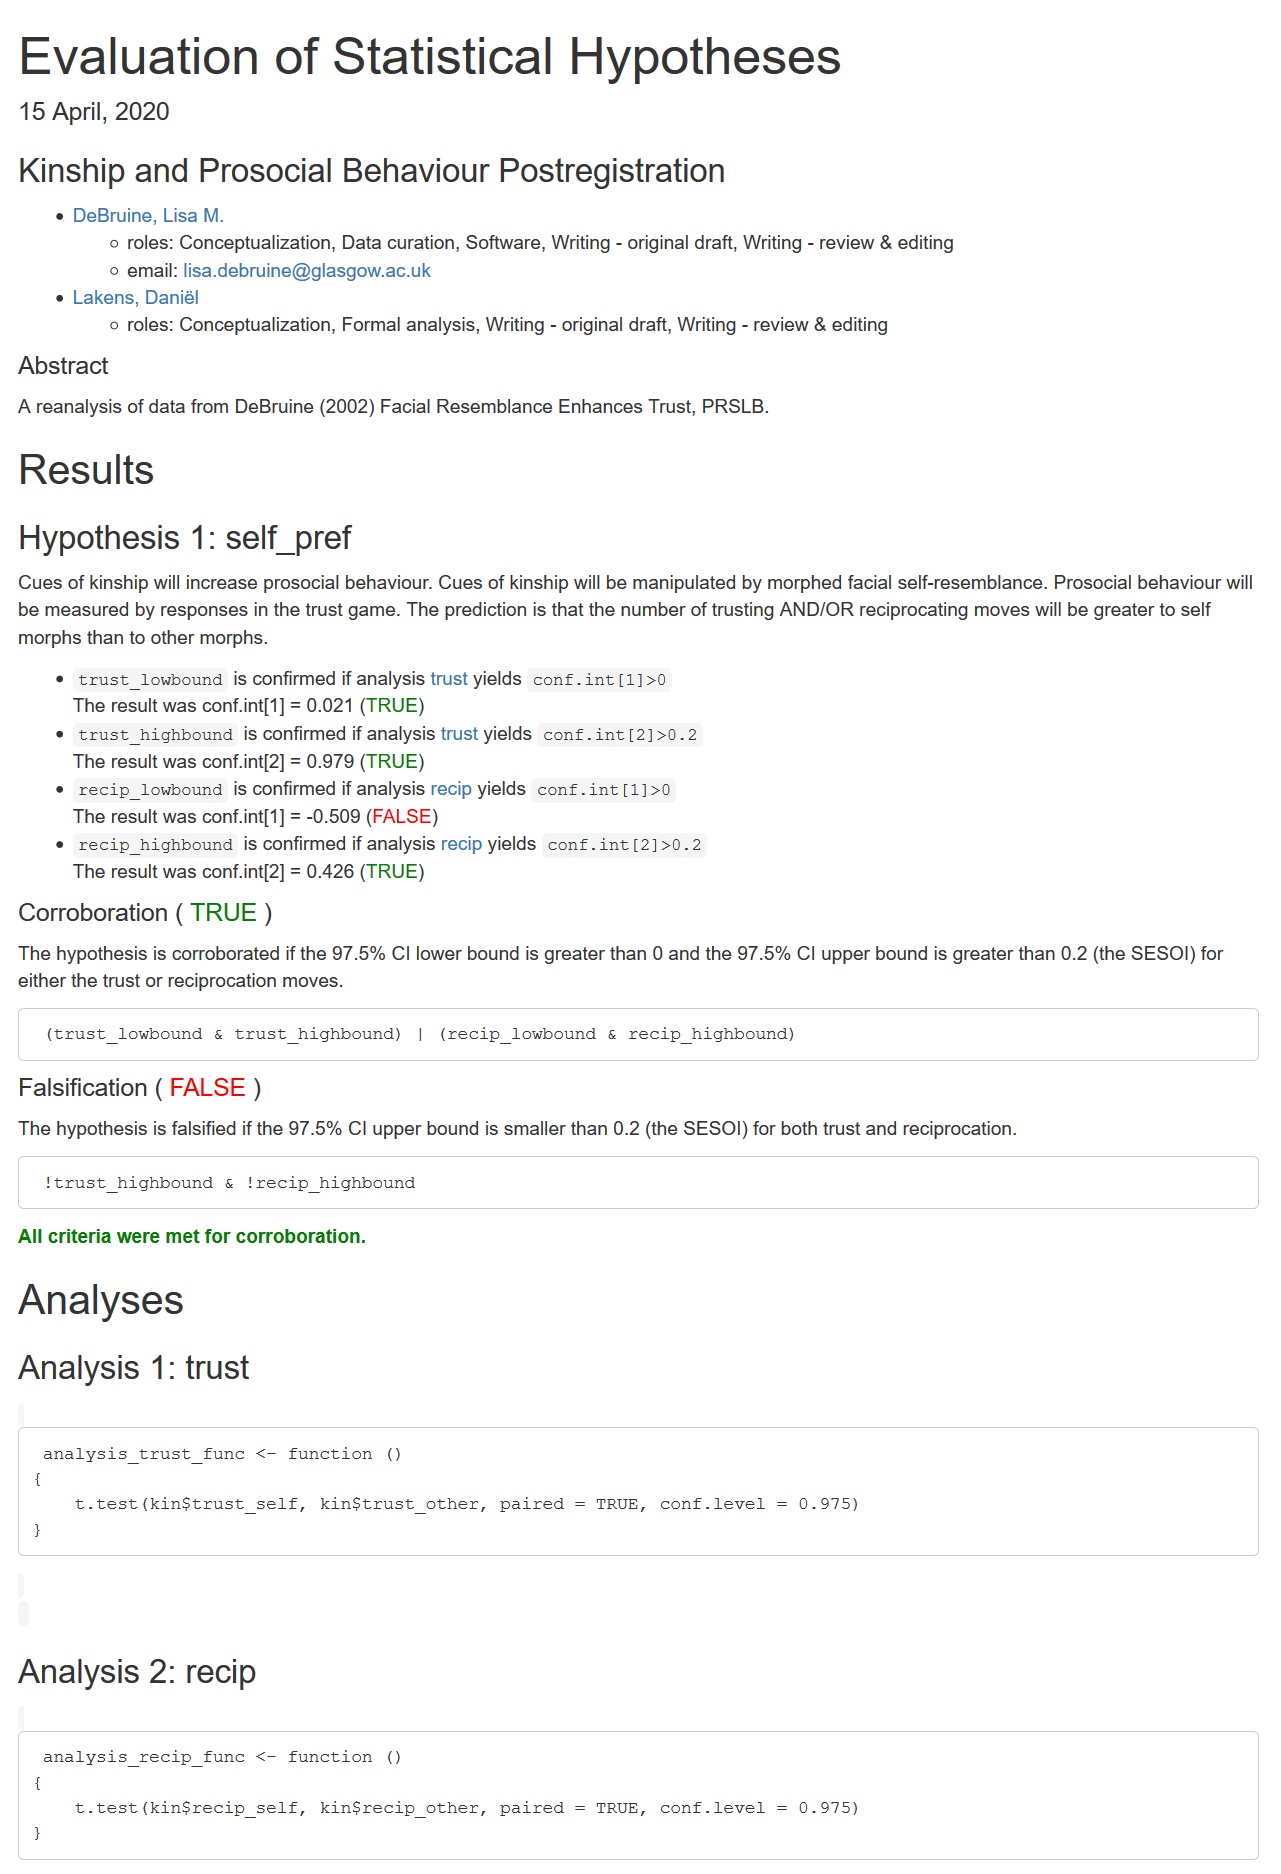
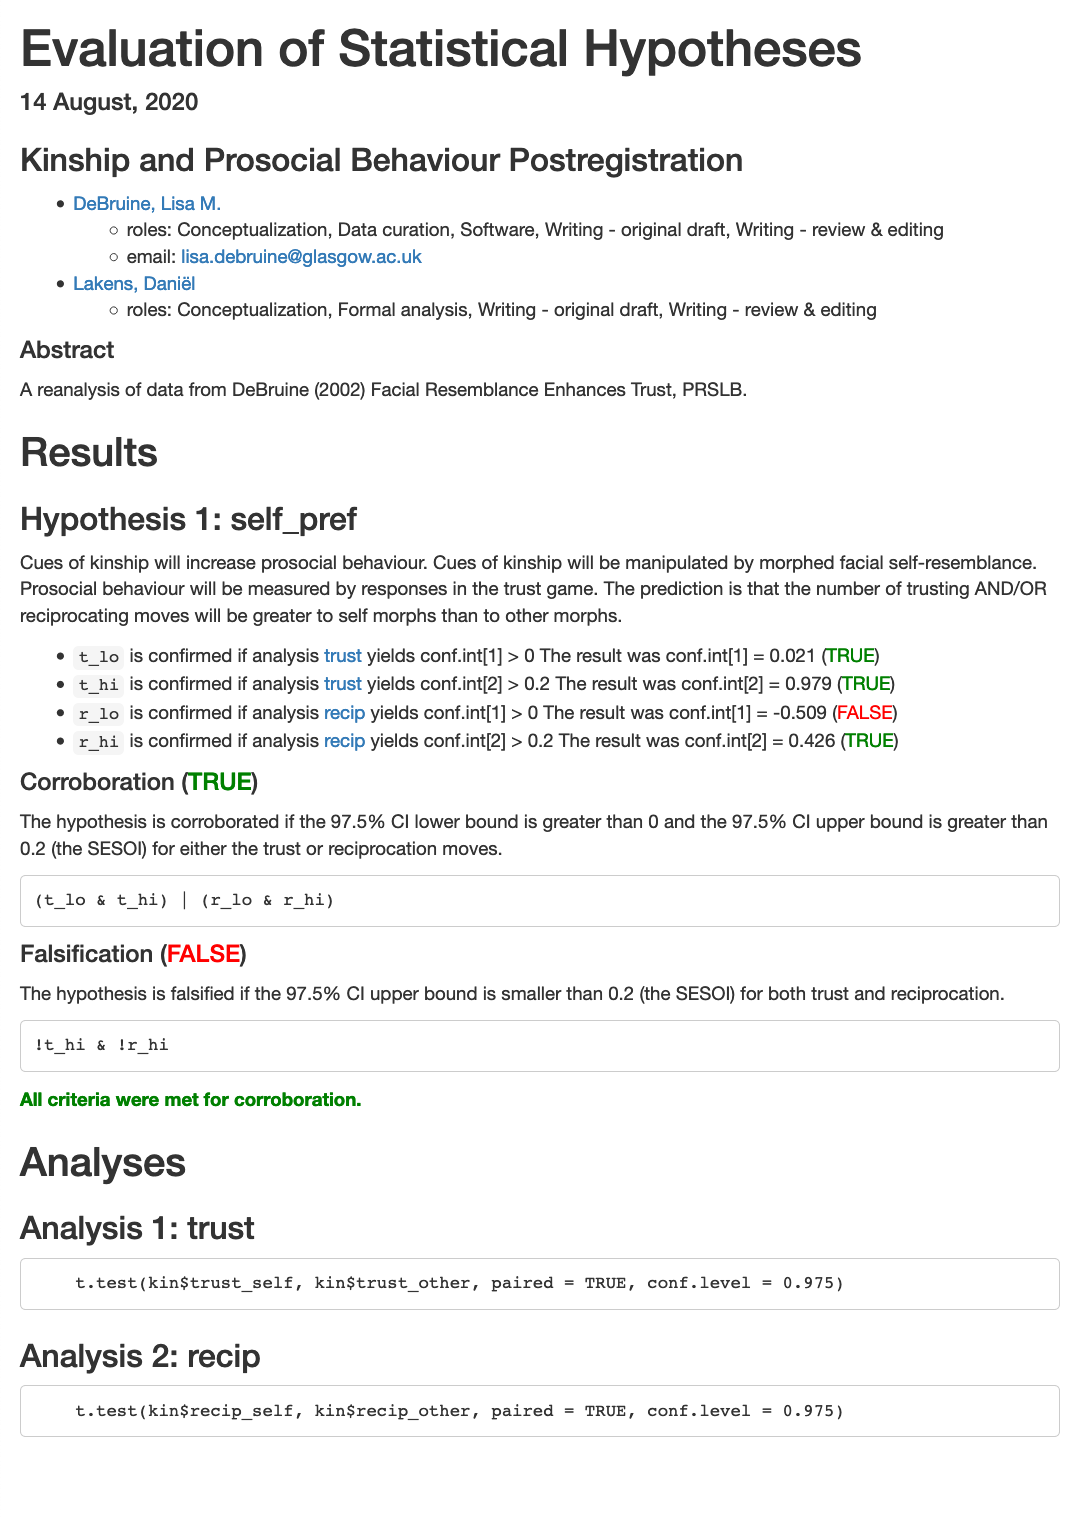
Updated in-text example code

diff --git a/example/main/example.html b/example/main/example.html
@@ -1523,14 +1523,14 @@ div.tocify {
 <p>One goal of scienceverse is to automate the evaluation of predictions. A researcher specifies the prediction in the preregistration, collects the data, and the scienceverse R package (or other platforms that handle scienceverse-formatted files) can then use the preregistration file and the data to automatically evaluate whether the predictions were confirmed or not.</p>
 <p>The demo below follows the example from:</p>
 <p>Lakens, D., &amp; DeBruine, L. M. (2020, January 27). Improving Transparency, Falsifiability, and Rigour by Making Hypothesis Tests Machine Readable. <a href="https://doi.org/10.31234/osf.io/5xcda" class="uri">https://doi.org/10.31234/osf.io/5xcda</a></p>
-<div id="set-up-the-study" class="section level3">
-<h3>Set up the study</h3>
+<div id="set-up-the-study" class="section level2">
+<h2>Set up the study</h2>
 <p>Set up the study with a name and any additional info you want to add.</p>
 <pre class="r"><code>study &lt;- study(name = &quot;Kinship and Prosocial Behaviour&quot;,
                abstract = &quot;A reanalysis of data from DeBruine (2002) Facial Resemblance Enhances Trust, PRSLB.&quot;)</code></pre>
 </div>
-<div id="authors" class="section level3">
-<h3>Authors</h3>
+<div id="authors" class="section level2">
+<h2>Authors</h2>
 <p>Add each author in the following format. Use the function <code>credit_roles()</code> to see a list of the roles and their descriptions. Use <code>credit_roles(&quot;name&quot;)</code> or <code>credit_roles(&quot;abbr&quot;)</code> to just see their names or abbreviations. You can also add any further info, like an orcid or email address.</p>
 <pre class="r"><code>study &lt;- add_author(study, 
                     orcid = &quot;0000-0002-7523-5539&quot;,
@@ -1543,14 +1543,14 @@ div.tocify {
                     given = &quot;Daniël&quot;,
                     roles = c(&quot;con&quot;, &quot;ana&quot;, &quot;dra&quot;, &quot;edi&quot;))</code></pre>
 </div>
-<div id="hypotheses" class="section level3">
-<h3>Hypotheses</h3>
+<div id="hypotheses" class="section level2">
+<h2>Hypotheses</h2>
 <p>Now add a hypothesis with a verbal description. You can add more than one hypothesis, but this demo study only has one.</p>
 <pre class="r"><code>study &lt;- add_hypothesis(study, id = &quot;self_pref&quot;,
                         description = &quot;Cues of kinship will increase prosocial behaviour. Cues of kinship will be manipulated by morphed facial self-resemblance. Prosocial behaviour will be measured by responses in the trust game. The prediction is that the number of trusting AND/OR reciprocating moves will be greater to self morphs than to other morphs.&quot;)</code></pre>
 </div>
-<div id="analyses" class="section level3">
-<h3>Analyses</h3>
+<div id="analyses" class="section level2">
+<h2>Analyses</h2>
 <p>Add all relevant analyses for testing this hypothesis in the order that they should be run. Do any data prep first. Each analysis needs an <code>id</code> for reference in the criteria later. The <code>code</code> can be R code (wrap it in {} if you need more than one line) or the file path for a .R file. You can also add other information about your analysis, such as the software it’s running on.</p>
 <pre class="r"><code>study &lt;- add_analysis(study, id = &quot;trust&quot;,
                       code = t.test(kin$trust_self, 
@@ -1565,8 +1565,8 @@ div.tocify {
                                     conf.level = 0.975), 
                       software = R.version.string)</code></pre>
 </div>
-<div id="criteria" class="section level3">
-<h3>Criteria</h3>
+<div id="criteria" class="section level2">
+<h2>Criteria</h2>
 <p>Next, add the criteria you will need to check to corroborate or falsify each hypothesis. Each criterion needs a unique <code>id</code> so you can reference it next in the evaluation. Then, optionally specify the <code>hypothesis_id</code> and <code>analysis_id</code> where you’ll look for the result. If you omit these it will default to the last one added. For example, the analysis <code>trust</code> returns a list from the function <code>t.test</code>, which includes a value for <code>conf.int</code>. To see if the first number in this vector is larger than 0, set <code>result</code> to “conf.int[1]”, <code>operator</code> to “&gt;” , and <code>comparator</code> to <span class="math inline">\(0\)</span>. The options for <code>operator</code> are “&gt;”, “&lt;”, “=”, and “!=”.</p>
 <pre class="r"><code>study &lt;- study %&gt;%
   add_criterion(id = &quot;t_lo&quot;,
@@ -1579,8 +1579,8 @@ div.tocify {
   add_criterion(&quot;r_lo&quot;, &quot;conf.int[1]&quot;, &quot;&gt;&quot;, 0.0, &quot;recip&quot;) %&gt;%
   add_criterion(&quot;r_hi&quot;, &quot;conf.int[2]&quot;, &quot;&gt;&quot;, 0.2, &quot;recip&quot;)</code></pre>
 </div>
-<div id="evaluation" class="section level3">
-<h3>Evaluation</h3>
+<div id="evaluation" class="section level2">
+<h2>Evaluation</h2>
 <p>Add evaluation criteria for corroboration and falsification. The logical <code>evaluation</code> should reference the criterion <code>id</code>s above and can consist of those ids and the symbols <code>(</code>, <code>)</code>, <code>&amp;</code>, and <code>|</code>. You can optionally include a verbal <code>description</code> of the criterion to clarify the logical evaluation.</p>
 <pre class="r"><code>study &lt;- add_eval(study, &quot;corroboration&quot;,
                   evaluation = &quot;(t_lo &amp; t_hi) | (r_lo &amp; r_hi)&quot;,
@@ -1590,20 +1590,17 @@ study &lt;- add_eval(study, &quot;falsification&quot;,
                   evaluation = &quot;!t_hi &amp; !r_hi&quot;,
                   description = &quot;The hypothesis is falsified if the 97.5% CI upper bound is smaller than 0.2 (the SESOI) for both trust and reciprocation.&quot;)</code></pre>
 </div>
-<div id="save-in-machine-readable-format" class="section level3">
-<h3>Save in machine-readable format</h3>
+<div id="saving" class="section level2">
+<h2>Saving</h2>
 <p>At this point, you can save your study to a machine-readable JSON-formatted file.</p>
 <pre class="r"><code>study_save(study, &quot;prereg.json&quot;, format = &quot;json&quot;)</code></pre>
-<pre><code>#&gt; Saving to /Users/lisad/rproj/scienceverse/machine-readable/example/prereg.json</code></pre>
-</div>
-<div id="save-in-human-readable-format" class="section level3">
-<h3>Save in human-readable format</h3>
+<pre><code>#&gt; Saving to /Users/lisad/rproj/scienceverse/machine-readable/example/main/prereg.json</code></pre>
 <p>You can also export a human-readable pre-registration using the built-in “prereg” template.</p>
 <pre class="r"><code>study_save(study, &quot;prereg.html&quot;, format = &quot;prereg&quot;)</code></pre>
-<pre><code>#&gt; Saving to /Users/lisad/rproj/scienceverse/machine-readable/example/prereg.html</code></pre>
+<pre><code>#&gt; Saving to /Users/lisad/rproj/scienceverse/machine-readable/example/main/prereg.html</code></pre>
 </div>
-<div id="data" class="section level3">
-<h3>Data</h3>
+<div id="data" class="section level2">
+<h2>Data</h2>
 <p>The <code>id</code> you give the data can be used in the analysis code to refer to this dataset. The <code>data</code> argument can be a data frame or a file path to a data file or a PsychDS-formatted codebook. You can optionally add column parameters such as descriptions with the argument <code>vardesc</code> and other dataset parameters as additional arguments.</p>
 <pre class="r"><code>kin_data &lt;- data.frame(
   trust_self  = c(1,2,2,1,1,1,1,1,2,0,2,0,1,2,2,3,2,2,1,1,2,0,0,1),
@@ -1627,8 +1624,8 @@ study &lt;- add_data(study, id = &quot;kin&quot;,
                   vardesc = desc, 
                   url = &quot;https://osf.io/ewfhs/&quot;)</code></pre>
 </div>
-<div id="run-analyses" class="section level3">
-<h3>Run Analyses</h3>
+<div id="run-analyses" class="section level2">
+<h2>Run Analyses</h2>
 <p>When you run <code>study_analyse</code>, the data are loaded as their <code>id</code> names and the analyses are run in order. For example, the data from the section above will be available to your analyses as a dataframe called <code>kin</code>. The analysis is run in a separate environment, so you won’t see any new objects in the global environment. Therefore, changes you make to, e.g., a dataframe called <code>kin</code> in your global environment won’t affect the analysis. The evaluation of each criterion and hypothesis is printed as a message.</p>
 <pre class="r"><code>study &lt;- study_analyse(study)</code></pre>
 <pre><code>#&gt; Hypothesis self_pref: Cues of kinship will increase prosocial behaviour. Cues of kinship will be manipulated by morphed facial self-resemblance. Prosocial behaviour will be measured by responses in the trust game. The prediction is that the number of trusting AND/OR reciprocating moves will be greater to self morphs than to other morphs.
@@ -1653,16 +1650,13 @@ study &lt;- add_data(study, id = &quot;kin&quot;,
 #&gt; * Corroborate ((t_lo &amp; t_hi) | (r_lo &amp; r_hi)): TRUE
 #&gt; * Falsify (!t_hi &amp; !r_hi): FALSE</code></pre>
 </div>
-<div id="save" class="section level3">
-<h3>Save</h3>
+<div id="save-and-reload" class="section level2">
+<h2>Save and reload</h2>
 <p>At this point, you can save the post-registration version of your study to a JSON-formatted file and also export a human-readable post-registration report.</p>
 <pre class="r"><code>study_save(study, &quot;postreg.json&quot;, &quot;json&quot;)</code></pre>
-<pre><code>#&gt; Saving to /Users/lisad/rproj/scienceverse/machine-readable/example/postreg.json</code></pre>
+<pre><code>#&gt; Saving to /Users/lisad/rproj/scienceverse/machine-readable/example/main/postreg.json</code></pre>
 <pre class="r"><code>study_save(study, &quot;postreg.html&quot;, &quot;postreg&quot;)</code></pre>
-<pre><code>#&gt; Saving to /Users/lisad/rproj/scienceverse/machine-readable/example/postreg.html</code></pre>
-</div>
-<div id="reload" class="section level3">
-<h3>Reload</h3>
+<pre><code>#&gt; Saving to /Users/lisad/rproj/scienceverse/machine-readable/example/main/postreg.html</code></pre>
 <p>You can reload and edit your study by loading the .json file with the study() function.</p>
 <pre class="r"><code>study2 &lt;- study(&quot;postreg.json&quot;)
 

diff --git a/example/main/prereg.html b/example/main/prereg.html
@@ -362,7 +362,7 @@ summary {
 
 
 <h1 class="title toc-ignore">Registration of Statistical Hypotheses</h1>
-<h4 class="date">24 July, 2020</h4>
+<h4 class="date">14 August, 2020</h4>
 
 </div>
 

diff --git a/example/main/postreg.html b/example/main/postreg.html
@@ -362,7 +362,7 @@ summary {
 
 
 <h1 class="title toc-ignore">Evaluation of Statistical Hypotheses</h1>
-<h4 class="date">24 July, 2020</h4>
+<h4 class="date">14 August, 2020</h4>
 
 </div>
 
